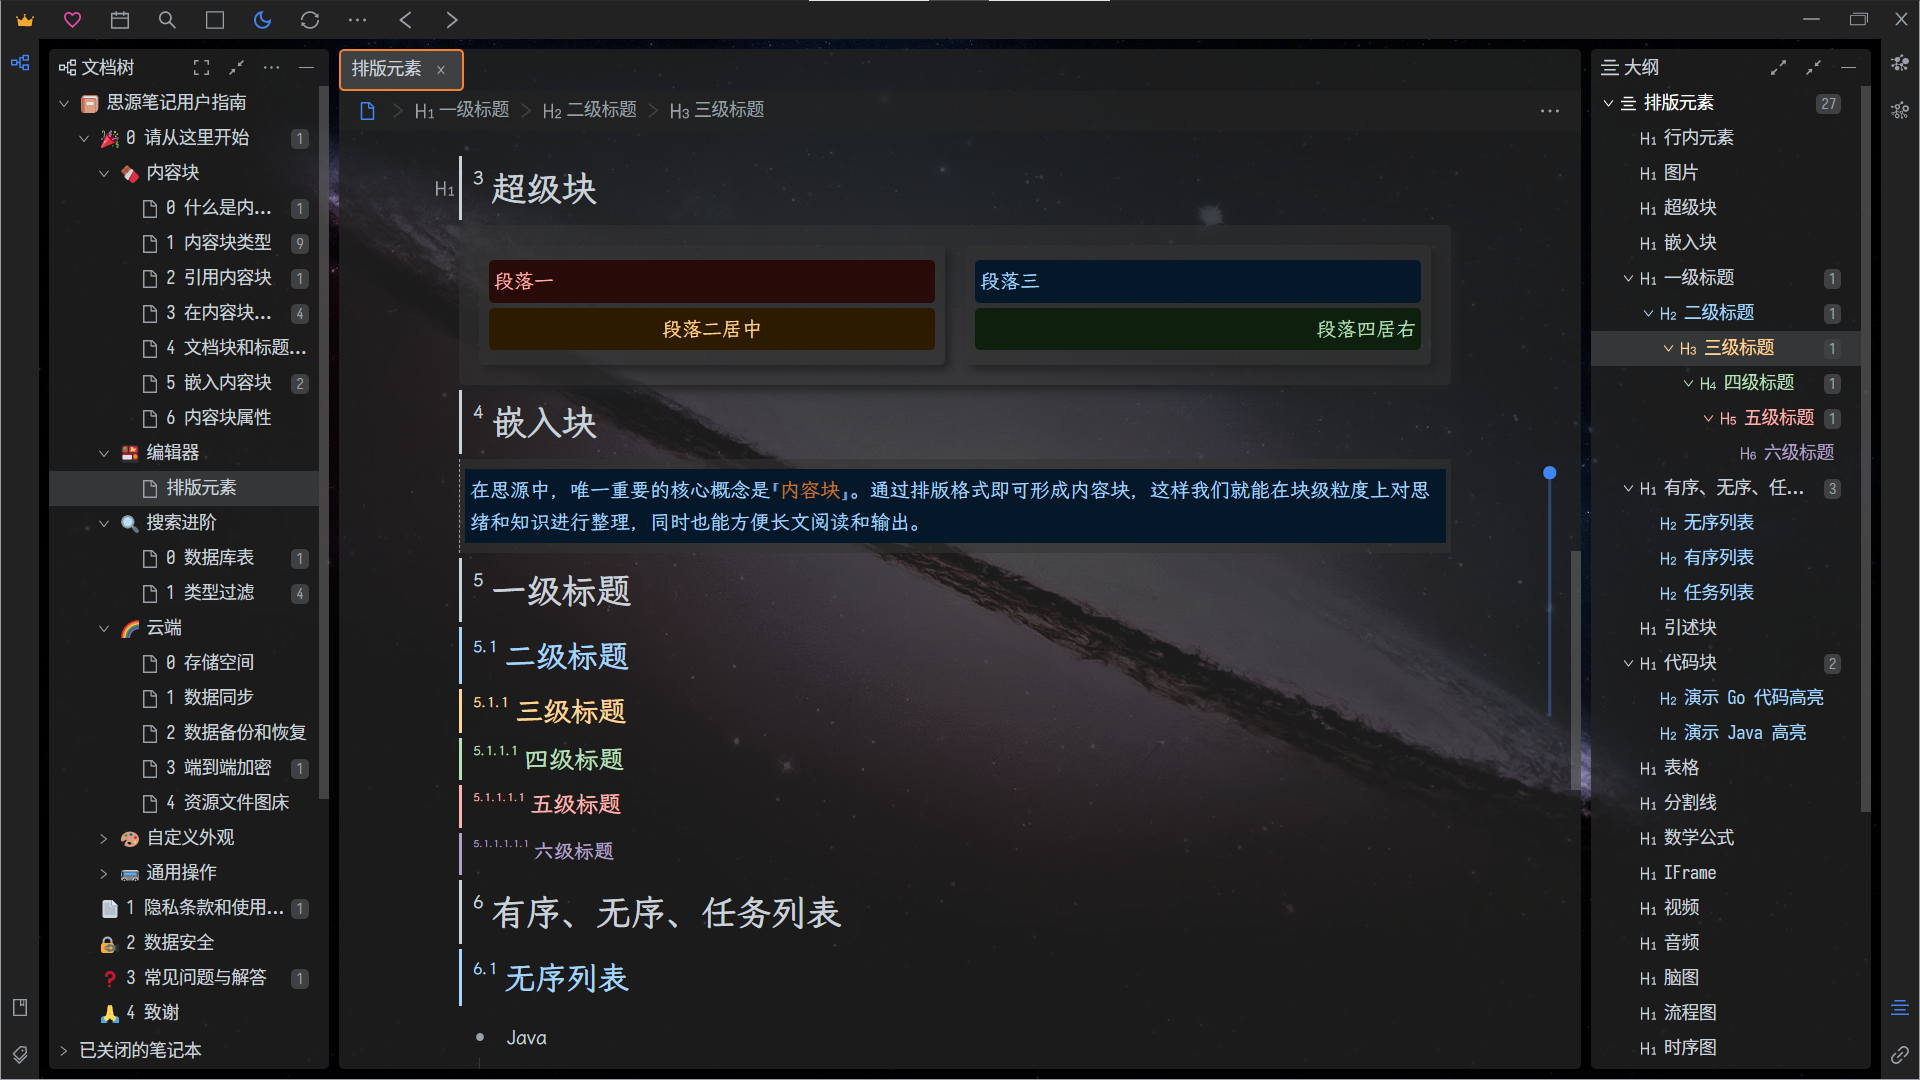
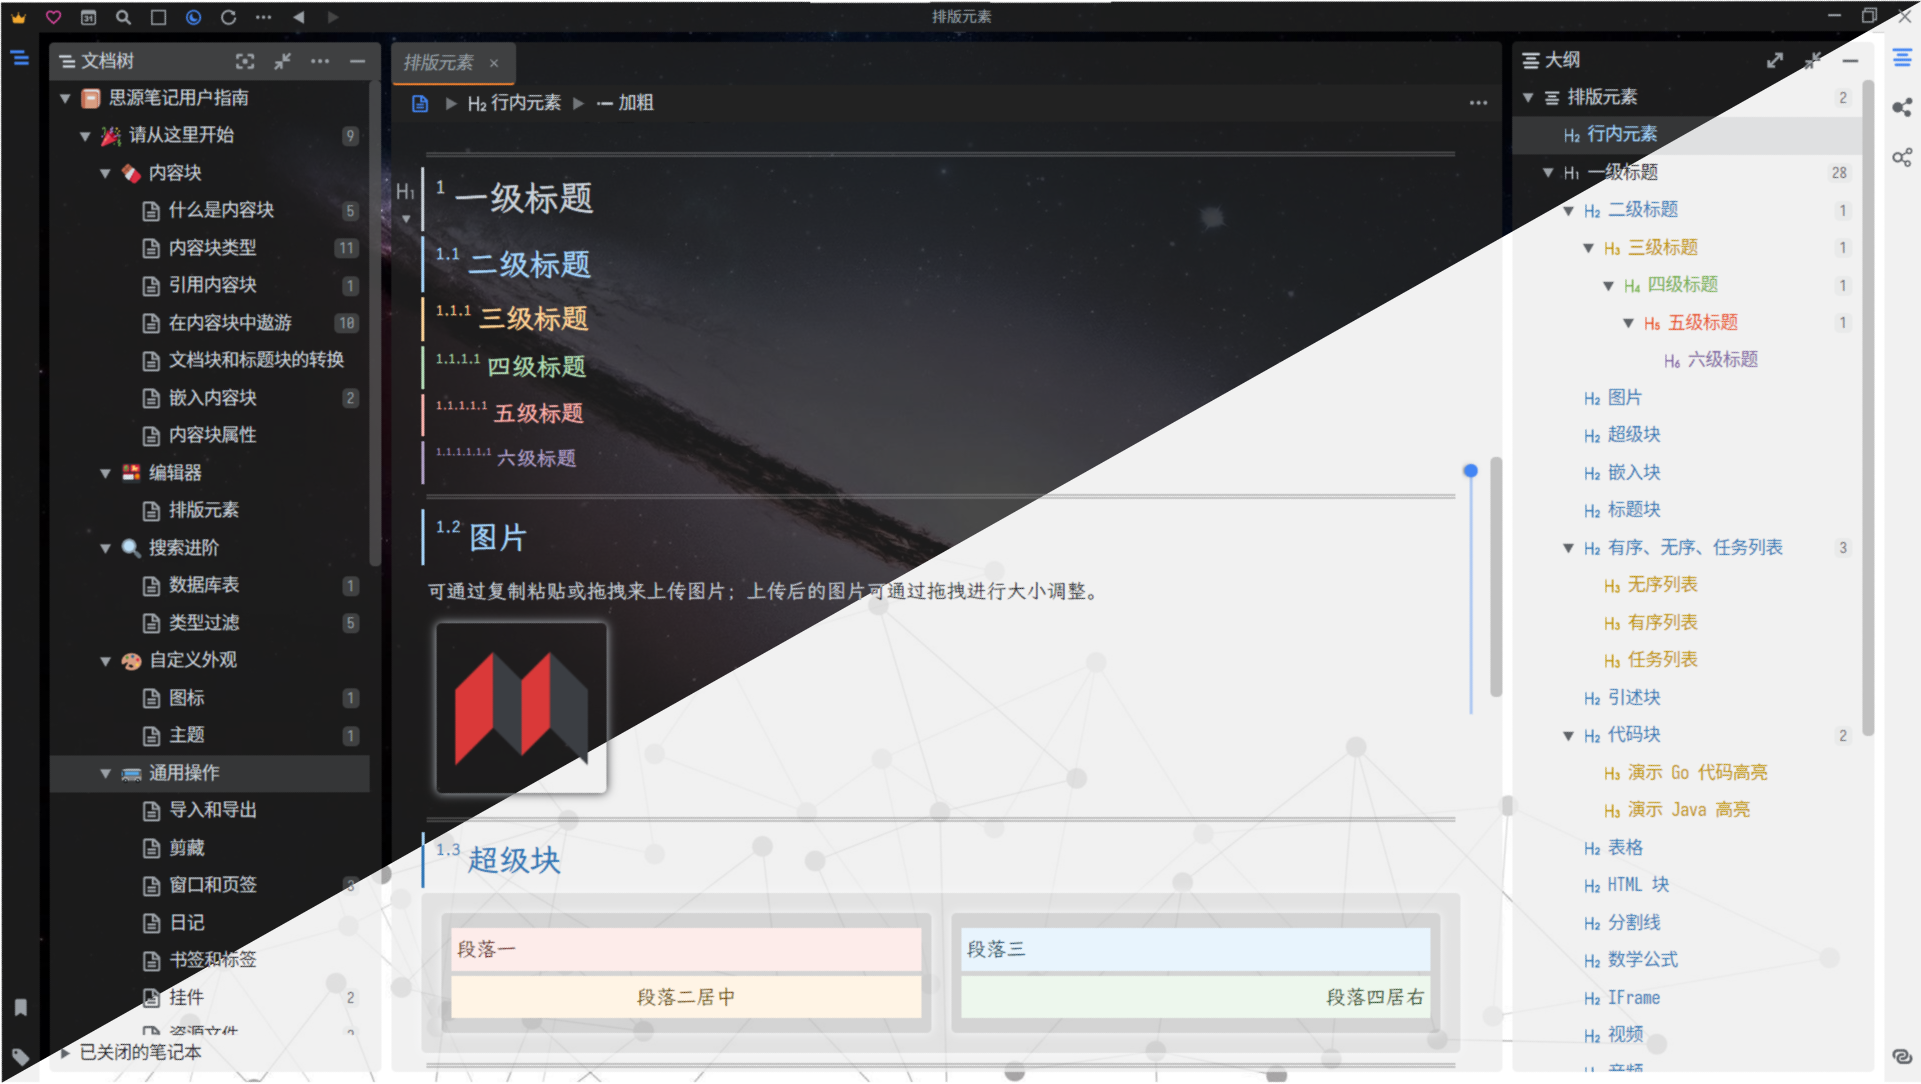
refactor: 调整浅色主题背景图片 | Adjust the light theme background image.

diff --git a/style/color/light.css b/style/color/light.css
@@ -1,7 +1,7 @@
 :root {
     /* 背景图片 */
-    --custom-background-image: url("/appearance/themes/Dark+/image/light/background (1).jpeg");
-    --custom-background-image-dialog: url("/appearance/themes/Dark+/image/light/background (2).jpeg");
+    --custom-background-image: url("/appearance/themes/Dark+/image/light/background (05).jpeg");
+    --custom-background-image-dialog: url("/appearance/themes/Dark+/image/light/background (01).jpeg");
 
     /* 透明组件颜色 | Transparent component color */
     --custom-transparent-lighter: #1111;
@@ -43,6 +43,9 @@
 
     /* 思源标签背景颜色 | The background color of tag */
     --custom-span-tag-background-color: var(--b3-font-background9);
+
+    /* 列表转换成的表格鼠标悬浮背景颜色 | The background color of the mouse hover row of the table converted by a list */
+    --custom-list-table-hover-background-color: #0001;
 }
 
 /* 自定义配置 */

diff --git a/style/module/config.css b/style/module/config.css
@@ -299,7 +299,10 @@
     /* 偶数行 | even line */
     --custom-block-table-even-background-color: var(--custom-transparent-light);
     /* 鼠标悬浮行 | hover line */
-    --custom-block-table-hover-background-color: var(--b3-theme-background-light);
+    --custom-block-table-hover-background-color: var(--custom-components-light);
+
+    /* 列表转换成的表格鼠标悬浮背景颜色 | The background color of the mouse hover row of the table converted by a list */
+    --custom-list-table-hover-background-color: #FFF1;
 
     /* 弹出菜单 | popover menu */
     /* 弹出功能菜单背景颜色 | The background color of the popover function menu */

diff --git a/style/module/block-table.css b/style/module/block-table.css
@@ -10,6 +10,10 @@
 }
 
 /* 表头背景颜色 */
+.b3-typography table thead>tr,
+.protyle-wysiwyg table thead>tr {
+    background-color: transparent;
+}
 .b3-typography table thead,
 .protyle-wysiwyg table thead {
     background-color: var(--custom-block-table-thead-background-color);

diff --git a/style/module/custom-type-table.css b/style/module/custom-type-table.css
@@ -39,7 +39,7 @@
 
 /* 鼠标悬浮列表项 */
 .protyle-wysiwyg div.list[custom-type~=table] div.li:hover {
-    background-color: #FFF1;
+    background-color: var(--custom-list-table-hover-background-color);
 }
 
 /* 最顶层的列表项滚动 */

diff --git a/README.md b/README.md
@@ -14,15 +14,17 @@
 
 </center>
 
-[思源笔记](https://github.com/siyuan-note/siyuan)的一款深色主题(同时支持浅色模式, 没想到吧~)  
-A dark theme(also supports light mode, can you imagine that ~) of [SiYuan Note](https://github.com/siyuan-note/siyuan).
+[思源笔记](https://github.com/siyuan-note/siyuan)的一款深色主题 (同时支持浅色模式, 没想到吧~)  
+A dark theme (which also supports light mode, can you imagine that ~) of [SiYuan Note](https://github.com/siyuan-note/siyuan).
 
 现已上架[思源笔记社区集市](https://github.com/siyuan-note/bazaar), 如果您需要订阅[思源笔记](https://github.com/siyuan-note/siyuan)增值服务，欢迎使用我的推荐码: **h0sc9rc**  
 It is now on the shelves of the [Siyuan Notes Community Bazaar](https://github.com/siyuan-note/bazaar). If you need to subscribe to the value-added services of [siyuan note](https://github.com/siyuan-note/siyuan/blob/master/README_en_US.md), please use my referral code: **h0sc9rc**
 
 ## 预览 | PREVIEW
 
-![preview](https://cdn.jsdelivr.net/gh/Zuoqiu-Yingyi/siyuan-theme-dark-plus/preview.png)
+![深色](https://cdn.jsdelivr.net/gh/Zuoqiu-Yingyi/siyuan-theme-dark-plus/image/preview-dark.png)
+
+![浅色](https://cdn.jsdelivr.net/gh/Zuoqiu-Yingyi/siyuan-theme-dark-plus/image/preview-light.png)
 
 ![行级元素对齐](https://cdn.jsdelivr.net/gh/Zuoqiu-Yingyi/siyuan-theme-dark-plus/image/README/1647098220929.png)
 
@@ -569,6 +571,9 @@ PS: The table is generated automatically using [All Contributors · GitHub](http
     --custom-block-table-even-background-color: var(--custom-transparent-light);
     /* 鼠标悬浮行 | hover line */
     --custom-block-table-hover-background-color: var(--b3-theme-background-light);
+
+    /* 列表转换成的表格鼠标悬浮背景颜色 | The background color of the mouse hover row of the table converted by a list */
+    --custom-list-table-hover-background-color: #FFF1;
 
     /* 弹出菜单 | popover menu */
     /* 弹出功能菜单背景颜色 | The background color of the popover function menu */

diff --git a/CHANGELOG.md b/CHANGELOG.md
@@ -5,6 +5,7 @@
 - 为虚拟引用元素添加背景色 | Adds a background color to the virtual reference element.
 - 添加浅色模式 | Adds the mode of light color.
 - 支持浅色模式与深色模式自定义样式配置文件引用 | Supports light mode and dark mode custom style profile references.
+- 调整浅色主题背景图片 | Adjust the light theme background image.
 
 ## v0.5.7/2022-04-02
 